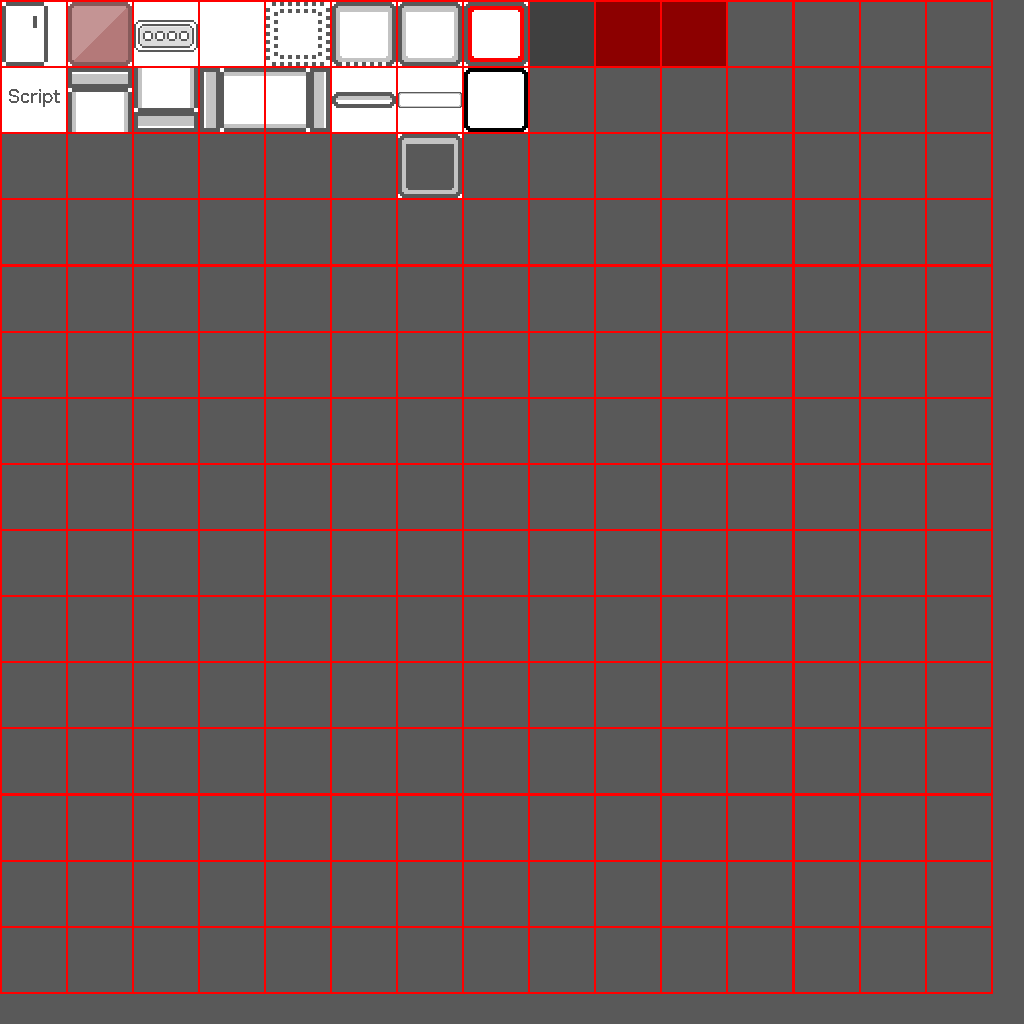
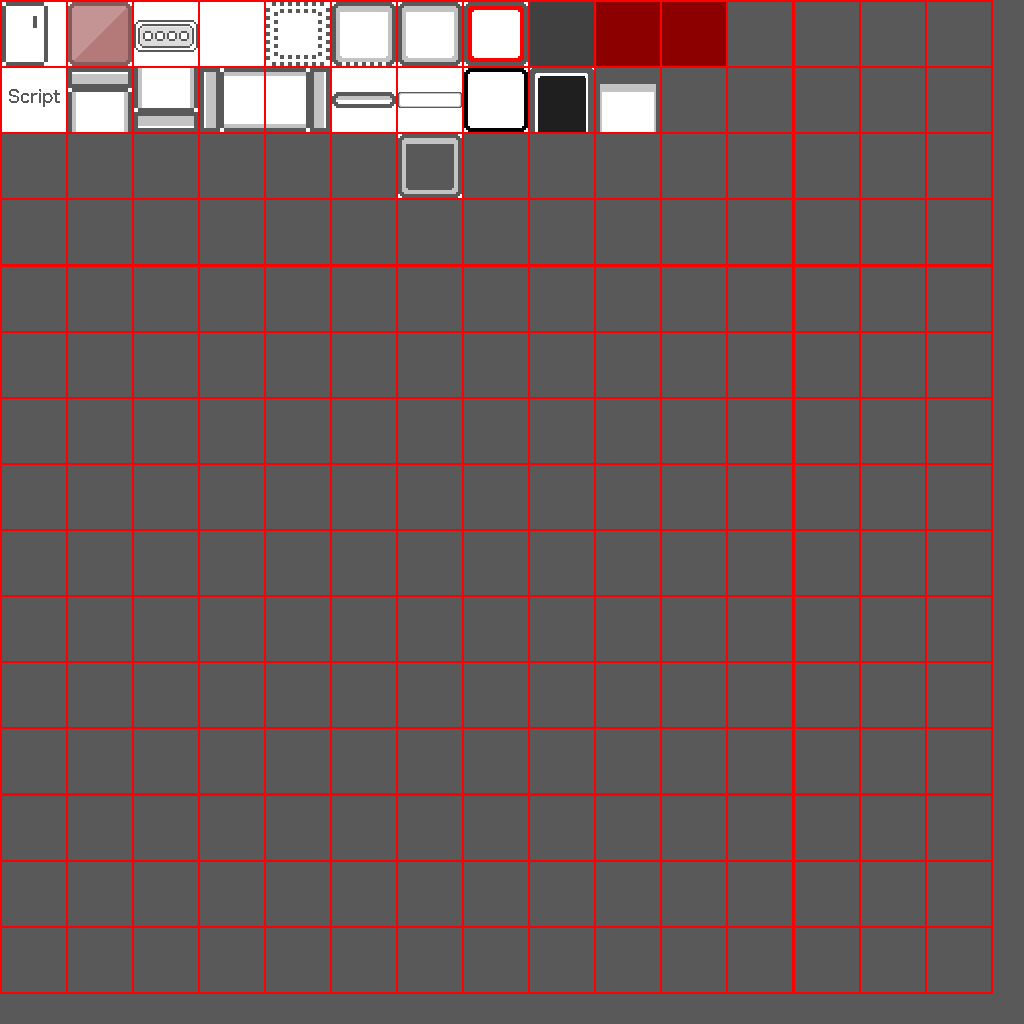
Updated graphics / tile maps. Fixed back button logic on android.

Changed region(s): [[0.5, 0.0625, 0.6562, 0.1562]]

diff --git a/core/src/misc/InputListener.java b/core/src/misc/InputListener.java
@@ -26,7 +26,9 @@ public final class InputListener extends com.badlogic.gdx.scenes.scene2d.InputLi
 		Player player = Globals.getPlayer();
 		switch(keyCode) {
 			case Keys.BACK:
-				Globals.getGameWorld().loadLobbyRoom();
+				if(!Globals.isGameLoading() && !Globals.getCurrentRoom().isLobby()) {
+					Globals.getCurrentRoom().restart();
+				}
 				break;
 			case Keys.SPACE:
 				player.jump();
